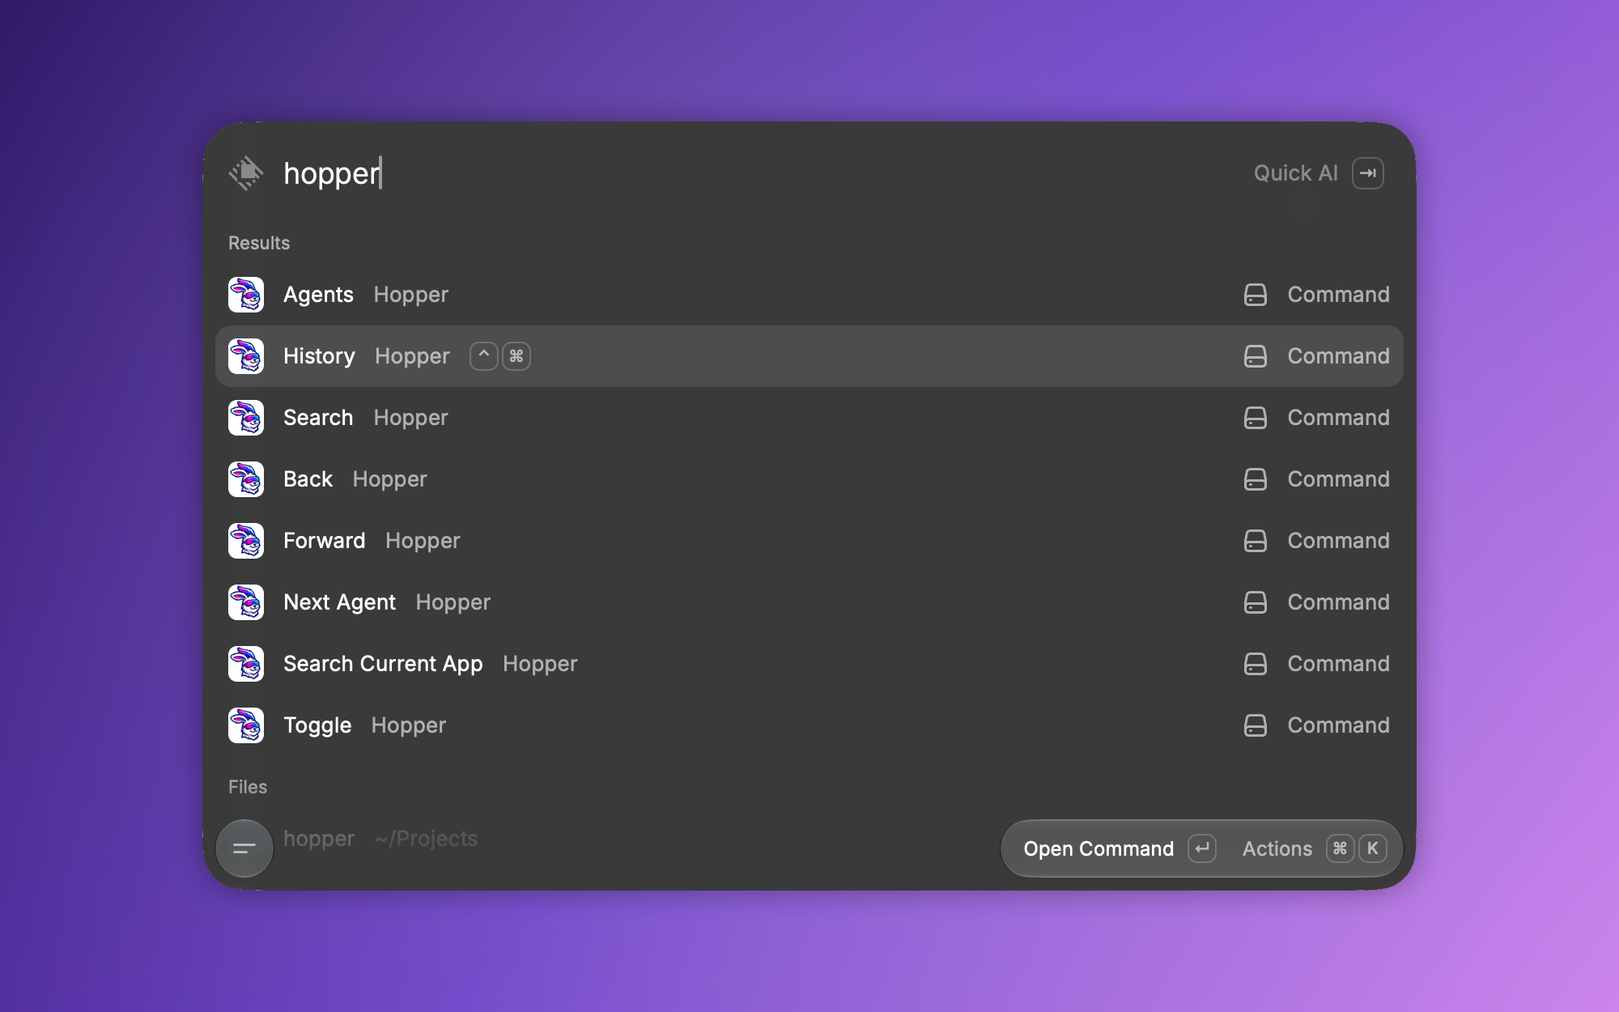
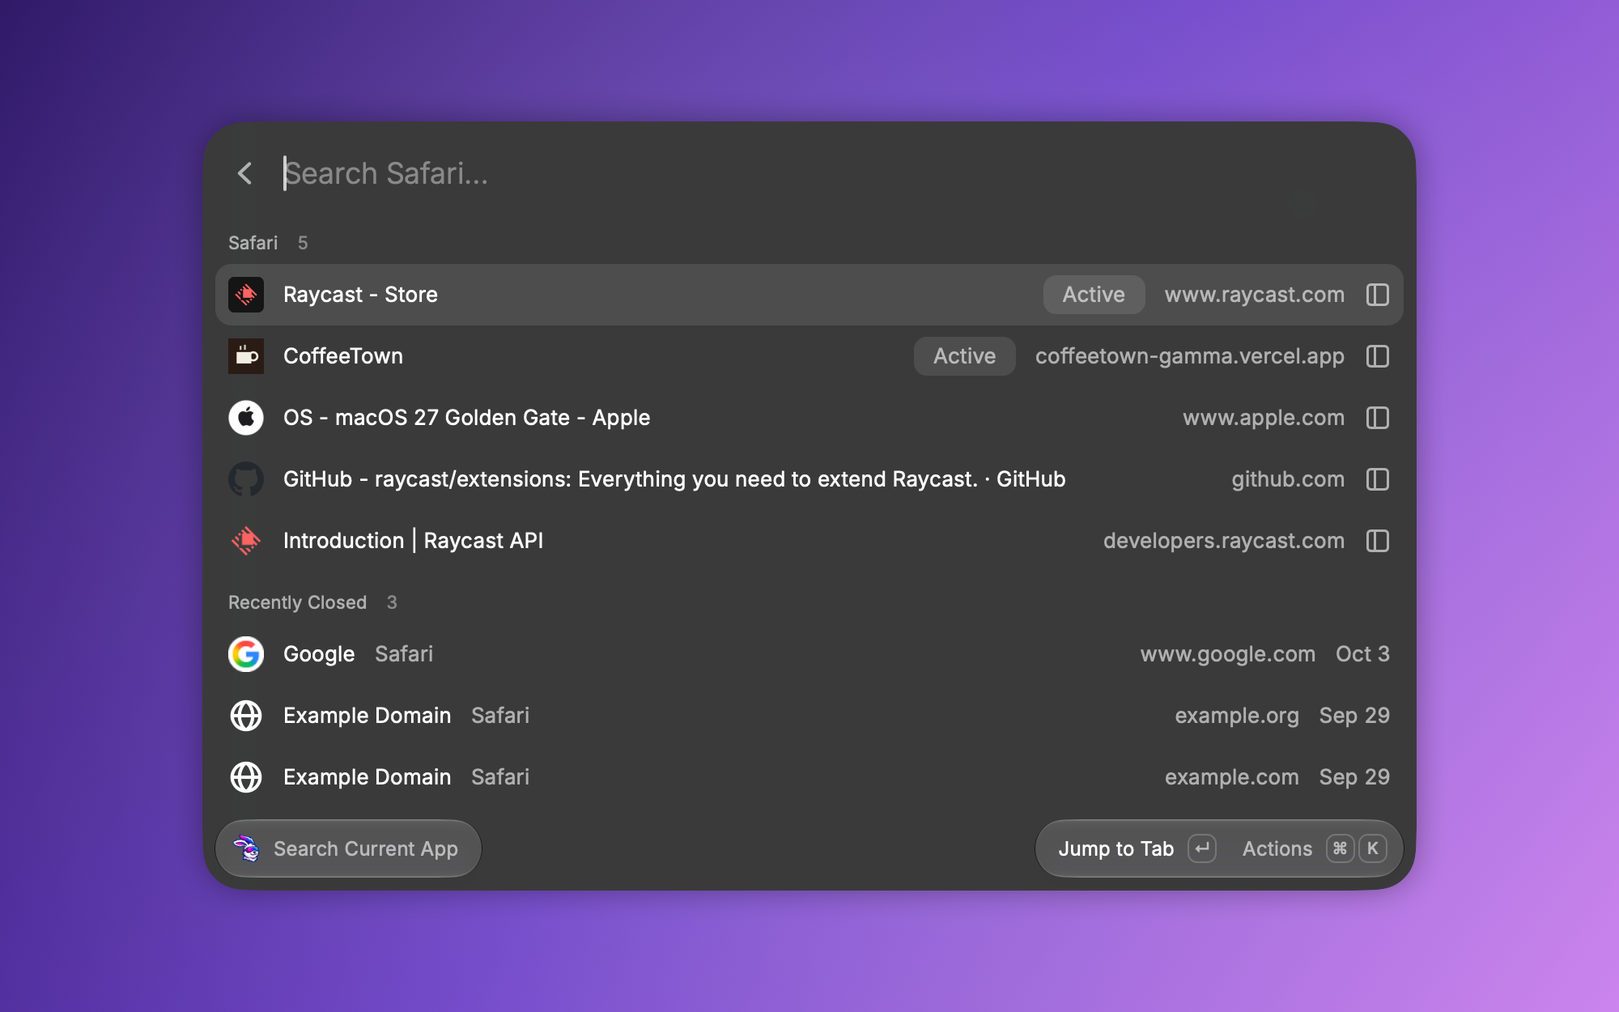
Store review fixes: descriptive title, extension-only screenshot, Agents refresh.
Raycast's review of raycast/extensions#31648:
- Title "Hopper - App, Tab & Agent Switcher", slug hopper-app-tab-agent-switcher (ADR-037); deeplinks, site link, docs follow.
- hopper-5.png shows Search Current App instead of Raycast's root search (store_media.py screenshot-5).
- Agents schedules its next refresh after a read ends, so slow reads no longer pile up.
- CHANGELOG is a single Initial Version entry.

diff --git a/site/index.html b/site/index.html
@@ -207,7 +207,7 @@ footer .wrap { display: flex; justify-content: space-between; gap: 16px; flex-wr
     <h1>Hop to any <em>app, tab, or agent.</em></h1>
     <p>Step back through recent apps like browser history, search every tab and session in one list, and jump to the AI agent that needs you. Free for Raycast.</p>
     <div class="cta">
-      <a class="btn primary" id="install" href="https://www.raycast.com/matt_herwig/hopper">Get it for Raycast</a>
+      <a class="btn primary" id="install" href="https://www.raycast.com/matt_herwig/hopper-app-tab-agent-switcher">Get it for Raycast</a>
       <a class="btn" href="#demo">See it in action ↓</a>
     </div>
     <div class="note">macOS · Free and open source · No background process</div>
@@ -314,7 +314,7 @@ footer .wrap { display: flex; justify-content: space-between; gap: 16px; flex-wr
       <h2>Setup</h2>
       <ol class="steps">
         <li><span>Install Hopper from the <a href="https://www.raycast.com/">Raycast</a> Store.</span></li>
-        <li><span>Record hotkeys in Raycast Settings → Extensions → Hopper (extensions can't set them). Recommended: the ones shown above.</span></li>
+        <li><span>Record hotkeys in Raycast Settings → Extensions → Hopper - App, Tab & Agent Switcher (extensions can't set them). Recommended: the ones shown above.</span></li>
         <li><span>First time in Search: allow <strong>Automation</strong> and <strong>Accessibility</strong> when asked.</span></li>
       </ol>
     </div>

diff --git a/extension/src/components/agent-list.tsx b/extension/src/components/agent-list.tsx
@@ -33,10 +33,12 @@ export function AgentList() {
     keepPreviousData: true,
     onError: (error) => showFailure(error, "Could not read agents"),
   });
+  // The next read starts only after this one ends: a slow app (AppleScript can take seconds) must not pile up reads.
   useEffect(() => {
-    const timer = setInterval(revalidate, REFRESH_MS);
-    return () => clearInterval(timer);
-  }, [revalidate]);
+    if (isLoading) return;
+    const timer = setTimeout(revalidate, REFRESH_MS);
+    return () => clearTimeout(timer);
+  }, [isLoading, revalidate]);
   const [project, setProject] = useState(ALL);
   const agents = data?.agents ?? [];
   const projects = [...new Set(agents.flatMap((a) => (a.project ? [a.project.name] : [])))].sort();

diff --git a/scripts/bench.swift b/scripts/bench.swift
@@ -8,7 +8,7 @@ for command in CommandLine.arguments.dropFirst() {
   let initial = NSWorkspace.shared.frontmostApplication?.bundleIdentifier
   let task = Process()
   task.executableURL = URL(fileURLWithPath: "/usr/bin/open")
-  task.arguments = ["-g", "raycast://extensions/matt_herwig/hopper/\(command)"]
+  task.arguments = ["-g", "raycast://extensions/matt_herwig/hopper-app-tab-agent-switcher/\(command)"]
   let t0 = Date()
   FileHandle.standardError.write("T0 \(Int(t0.timeIntervalSince1970 * 1000))\n".data(using: .utf8)!)
   try! task.run()

diff --git a/scripts/media/store_media.py b/scripts/media/store_media.py
@@ -2,6 +2,7 @@
 """Generate Raycast Store media for Hopper by driving Raycast on this Mac.
 
   python3 scripts/media/store_media.py screenshots   -> extension/metadata/hopper-1.png ... (2000x1250)
+  python3 scripts/media/store_media.py screenshot-5  -> extension/metadata/hopper-5.png only
   python3 scripts/media/store_media.py gif           -> extension/media/demo.gif
 
 Needs: `npm run dev` running (in extension/), Accessibility + Screen Recording permission for the calling app,
@@ -21,7 +22,7 @@ from pathlib import Path
 ROOT = Path(__file__).resolve().parents[2]  # repo root
 EXT = ROOT / "extension"  # the Raycast extension (what ships to the Store)
 HERE = Path(__file__).resolve().parent
-DEEPLINK = "raycast://extensions/matt_herwig/hopper/"
+DEEPLINK = "raycast://extensions/matt_herwig/hopper-app-tab-agent-switcher/"
 TMP = Path(tempfile.mkdtemp(prefix="hopper-media-"))
 atexit.register(shutil.rmtree, TMP, ignore_errors=True)
 
@@ -58,7 +59,7 @@ SAFARI_TABS = [
 # Apps whose process name differs from the app name.
 PROCESS = {"Ghostty": "ghostty"}
 
-# Keys shown in the GIF overlay: the owner's own bindings (Raycast Settings → Extensions → Hopper).
+# Keys shown in the GIF overlay: the owner's own bindings (Raycast Settings → Extensions → Hopper - App, Tab & Agent Switcher).
 # Commands are actually triggered by deeplink, since Raycast ignores synthetic hotkeys.
 HOTKEYS = {
     "back": ["⌃", "⌘", "["],
@@ -323,21 +324,39 @@ def screenshots() -> None:
         capture(out / "hopper-3.png")
         close_raycast()
 
-    # 5. Root search for "hopper": every command, the second row selected to show its hotkey (Raycast ranks by use).
-    # Raycast ignores a synthetic ⌘Space, but Escape from a command's view pops to root search. Matching files from
-    # the user's disk show below the commands; review them before committing.
+        # 5. Search Current App: the staged Safari window's public pages.
+        capture_current_app(out)
+
+
+def capture_current_app(out: Path) -> None:
+    """Search Current App over Safari: only that app's tabs (the staged public pages, plus the owner's own Safari
+    windows: review them). Not root search: Store screenshots show only the extension (Store review)."""
+    close_raycast()
+    subprocess.run(["open", "-a", "Safari"], check=True)
+    time.sleep(1)
+    # From root search, not by deeplink: a first deeplink to a command stops on Raycast's "Request to run" prompt.
+    # Raycast ignores a synthetic ⌘Space, but Escape from a command's view pops to root search.
     deeplink("history")
     time.sleep(1.5)
     escape()
     time.sleep(0.6)
     if raycast_window() is None:
         raise RuntimeError("root search did not open")
-    keys('keystroke "hopper"')
-    time.sleep(1.5)
-    keys("key code 125")  # Raycast shows the hotkey of the selected row only
-    time.sleep(0.6)
+    keys('keystroke "Search Current App"')
+    time.sleep(1.2)
+    keys("key code 36")
+    time.sleep(4)  # the list first shows its cached copy, then refreshes
+    if raycast_window() is None:
+        raise RuntimeError("Search Current App did not open")
     capture(out / "hopper-5.png")
     close_raycast()
+
+
+def current_app_screenshot() -> None:
+    """Only hopper-5.png."""
+    out = EXT / "metadata"
+    with DemoApps(include_ghostty=False, note_name="Raycast.txt", preview_name="Raycast.png"):
+        capture_current_app(out)
 
 
 def gif() -> None:
@@ -651,4 +670,4 @@ def gif() -> None:
 
 
 if __name__ == "__main__":
-    {"screenshots": screenshots, "gif": gif}.get(sys.argv[1] if len(sys.argv) > 1 else "", lambda: sys.exit(__doc__))()
+    {"screenshots": screenshots, "screenshot-5": current_app_screenshot, "gif": gif}.get(sys.argv[1] if len(sys.argv) > 1 else "", lambda: sys.exit(__doc__))()

diff --git a/extension/CHANGELOG.md b/extension/CHANGELOG.md
@@ -1,43 +1,7 @@
 # Hopper Changelog
 
-## [Agents] - {PR_MERGE_DATE}
-
-- Agents command: every AI agent running on your Mac (Claude Code in terminals and the Claude app, Codex, Cursor, herdr, agent CLIs), grouped by Needs You, Done, Working, and Idle, filterable by project, and one step from where it runs.
-- Next Agent command: jump to the agent that has waited longest for you; run again for the next.
-- Jumping to a terminal agent selects its exact iTerm split or cmux terminal.
-- Tabs is now **Search** (and Tabs in Current App is **Search Current App**): it shows an agent's status next to the tab it runs in, and lists agents that aren't in a tab. Your hotkeys keep working.
-- herdr workspaces and tabs are listed in Search under the terminal running herdr, and agents in herdr panes open in their pane.
-- Ghostty tabs are listed in Search (Ghostty 1.3+), and herdr running in Ghostty is brought forward in its own tab.
-- cmux workspaces with several terminals also list each terminal by its name; herdr lists workspaces and their named tabs.
-- Search lists each agent in its app's section, and shows AppleScript's own error for apps it can't read.
-- README: recommended hotkeys for every command, clear of browser, terminal, and editor tab keys.
-- Claude Code sessions that haven't started yet (e.g. waiting to trust a folder) are listed as running.
-- Copy Resume Command for Claude Code and Codex sessions.
-- Search: `⌥→` / `⌥←` jump to the next or previous app's most recent entry.
-- Obsidian tabs in Search: every open vault's tabs, in all its windows (popouts too), with each note's folder; closed notes reopen from Recently Closed.
-- Bookmarks in Search: `⌘D` bookmarks a tab, page, note, document, or Recently Closed entry. Picking a bookmark jumps to the tab already showing it, in any browser, and opens it only when it isn't open. `⌘E` renames a bookmark.
-- Recently Closed jumps to the tab already showing an entry too, instead of opening it a second time; a page that comes back with or without a trailing slash no longer counts as closed.
-- Copy Link (`⌘L`) in Search: a link to share for a web page, Notion page, bookmark, or Recently Closed entry. Replaces Copy URL.
-- Apple Notes in Search: the notes in its Recent Notes menu (up to 10, most recent first); picking one shows it in Notes.
-- Slack channels and DMs in Search, from every signed-in workspace; picking one opens it in Slack.
-- Search no longer runs out of memory ("Command Out of Memory") with many Claude Code sessions: only the few fields it needs are read from the Claude app's session files.
-
-## [Tabs] - {PR_MERGE_DATE}
-
-- Tabs command: search tabs, windows, and sessions across running apps (Chromium browsers, Safari, cmux, iTerm, Terminal, Claude, Muse, and any app's windows) and jump to one.
-- Tabs in Current App command: the same for the frontmost app.
-- Tabs search tolerates typos ("caude" finds Claude) and lists an app's own tabs before tabs that mention its name.
-- Claude Code sessions are listed from Claude's session files (all projects, most recent first, sidebar hidden or not) and open via Claude's deep link.
-- Notion tabs: the front window's tabs (read from its tab bar) with each page's parent pages, then its other windows.
-- Claude Chat and Cowork conversations you've opened open via Claude's deep link, and stay listed with the sidebar hidden.
-- Incognito and private browser windows are left out of Tabs entirely.
-- Back, Forward, Toggle, and History switch apps like Cmd+Tab when Raycast has Accessibility, so an app returns to the window you left (for example TV's fullscreen player instead of its home screen).
-- Recently Closed section in Tabs: reopen browser tabs, Notion pages, and documents closed since Tabs last looked, with Remove and Clear actions.
-- Notion tabs open through Notion's own link, which switches to the tab showing the page in any window.
-
 ## [Initial Version] - {PR_MERGE_DATE}
 
-- Back and Forward commands, designed for hotkeys.
-- Toggle command to flip between your two most recent apps.
-- History command listing running apps by recent use.
-- Remove from History action in History to hide an app until you use it again, and Exclude from History to hide it for good.
+- Back, Forward, Toggle, and History to move through your recently used apps, switching like Cmd+Tab so each app returns to the window you left.
+- Search and Search Current App for tabs, windows, sessions, bookmarks, and recently closed items across apps: Chromium browsers, Safari, cmux, Ghostty, iTerm, Terminal, herdr, Claude, Muse, Notion, Obsidian, Apple Notes, Slack, and any app's windows. Incognito and private windows are left out.
+- Agents and Next Agent to see AI agents (Claude Code, Codex, Cursor, herdr, agent CLIs) by status and jump to where they run.

diff --git a/docs/DECISIONS.md b/docs/DECISIONS.md
@@ -326,3 +326,11 @@ Watching the database through a run: 3.15 never saves `generating`; a running ag
 - Rejected: the Slack Web API (OAuth token, network, duplicates Raycast's Slack extension); Accessibility for the list itself (only rendered rows, no ids, so no deep link); messages.
 
 **Consequences.** Channels joined or renamed since Slack last persisted (while its window stays open) are missing or show old names until the window closes, the network drops, or Slack quits. The V8 version patch and the Redux shape are Slack internals: decode failures, a wire version above 16, or missing `channels` / `teams` are reported as version drift (ADR-029). A blob is decoded whole before fields are picked, so peak memory scales with the workspace (`experiments` dominates here; a large org's `channels` and `members` are unmeasured), bounded by the 8 MB cap (decompressed ~3×). On this Mac's files the source lists 14 places from 2 workspaces in ~45 ms, marks the open DM active, and reports nothing. Not verified: the App Store build's paths, a large workspace's size, Search's heap in Raycast with Slack listed. Sources only list running apps, so Slack quit lists nothing, like the others.
+
+## ADR-037: Store title "Hopper - App, Tab & Agent Switcher", slug `hopper-app-tab-agent-switcher` (2026-10-05)
+
+**Context.** Raycast's Store review of raycast/extensions#31648 (0xdhrv) blocked on the title: "Hopper" alone doesn't say what the extension does, and other Mac apps use the name. Store titles must make that obvious; the reviewer suggested a descriptor and a matching `name`.
+
+**Decision.** Title "Hopper - App, Tab & Agent Switcher", `name` (Store slug, folder in raycast/extensions, deeplinks) `hopper-app-tab-agent-switcher`. Commands keep "Hopper" as their `subtitle`, so root search still reads "Back · Hopper". Owner's own phrase ("Hop to any app, tab, or agent") was considered: as a Title Case title it reads like a tagline and makes a long slug. Done before the first Store release, so no installed user loses anything.
+
+**Consequences.** Deeplinks are `raycast://extensions/matt_herwig/hopper-app-tab-agent-switcher/<command>` (scripts, CLAUDE.md, bench); the Store page and the site's install link move to that slug; Raycast Settings lists the extension under the new title. The dev build is a new extension to Raycast: its LocalStorage (bookmarks, History exclusions) and hotkeys start empty. The Store PR's folder moves from `extensions/hopper` to `extensions/hopper-app-tab-agent-switcher` (the old folder must not stay in the PR).

diff --git a/docs/RELEASING.md b/docs/RELEASING.md
@@ -14,7 +14,7 @@ Source: https://developers.raycast.com/basics/prepare-an-extension-for-store and
 All commands below run in `extension/`. Publish ships everything on disk in `extension/` (ADR-012): check nothing dev-only or stray (e.g. `.DS_Store`, `swift/.build/`) is in there first.
 
 - [ ] `cd extension && npm run check` passes (tests + `ray lint` + `ray build`).
-- [ ] Test the **distribution** build (the PR checklist asks for it). If user-facing behavior changed, the owner may choose to run `python3 scripts/smoke.py --dist` (`smoke-test` skill, all suites, ~2½ min of screen takeover; ask first, don't run by default). Background: `npm run build` is plain `ray build`, which defaults to `-e dev`; `ray build -e dist` writes into Raycast's installed copy (`~/.config/raycast/extensions/hopper`).
+- [ ] Test the **distribution** build (the PR checklist asks for it). If user-facing behavior changed, the owner may choose to run `python3 scripts/smoke.py --dist` (`smoke-test` skill, all suites, ~2½ min of screen takeover; ask first, don't run by default). Background: `npm run build` is plain `ray build`, which defaults to `-e dev`; `ray build -e dist` writes into Raycast's installed copy (`~/.config/raycast/extensions/hopper-app-tab-agent-switcher`).
 - [ ] Manually test built extension: bind the recommended hotkeys (`extension/README.md` Setup), walk back 3 apps, forward 3, switch manually mid-walk, quit an app mid-walk, test with apps on other Spaces and hidden apps.
 - [ ] `extension/metadata/` folder: 3–6 PNG screenshots, 2000×1250 — **required** because `history` is a `view` command. Capture with Raycast "Window Capture" (hotkey in Raycast settings) → "Save to Metadata" while running `npm run dev`, or rerun the `store-screenshots` skill. Ideas: history list; command search showing both hotkey commands; HUD "No earlier app in history".
 - [ ] Icon looks good in light + dark Raycast themes (`extension/assets/extension-icon.png`, 512×512 PNG; optional `extension-icon@dark.png`).
@@ -42,6 +42,6 @@ Never rename command `name`s (breaks users' hotkeys).
 
 ## Marketing after approval
 
-- Store page: https://www.raycast.com/matt_herwig/hopper (verify after merge).
+- Store page: https://www.raycast.com/matt_herwig/hopper-app-tab-agent-switcher (verify after merge).
 - Post pitch (see `docs/RESEARCH.md` → Pitch) to: r/raycastapp, r/macapps, Raycast Slack #extensions, Show HN (optional), X with a short screen recording.
 - Answer existing "switch to previous app mac" threads (links in RESEARCH.md) where on-topic.

diff --git a/.claude/skills/store-screenshots/SKILL.md b/.claude/skills/store-screenshots/SKILL.md
@@ -13,7 +13,7 @@ Produces `extension/metadata/hopper-1.png` … `hopper-5.png`, the images on the
 | `hopper-2.png` | Agents, grouped by status. Live sessions on this Mac; review for personal titles before keeping it. |
 | `hopper-3.png` | History list: Current tag, "n back" labels, built-in apps only |
 | `hopper-4.png` | Search for "macos": the staged page in Recently Closed |
-| `hopper-5.png` | Root search for "hopper": all commands, the second row selected (Raycast shows only the selected row's hotkey; its ranking follows usage) |
+| `hopper-5.png` | Search Current App over the staged Safari window: public pages (your own Safari windows show too; review). Not root search: Store review rejects screenshots outside the extension. Only this one: `store_media.py screenshot-5` |
 
 ## Before running
 
@@ -38,7 +38,7 @@ What it does (`scripts/media/store_media.py`):
 ## After running: review every image (required)
 
 Read each PNG and check:
-- Search (`hopper-1.png`) is the owner's real list, empty query; they accepted that. Recently Closed shows the staged macOS page (`hopper-4.png`). History shows built-in apps (`hopper-3.png`). The list first shows its cached copy, so the script waits before capturing. Agents (`hopper-2.png`) is live: if session titles or paths are personal, don't keep that frame. `hopper-5.png` lists matching files from `~/Projects/hopper` below the commands; the owner accepted that.
+- Search (`hopper-1.png`) is the owner's real list, empty query; they accepted that. Recently Closed shows the staged macOS page (`hopper-4.png`). History shows built-in apps (`hopper-3.png`). The list first shows its cached copy, so the script waits before capturing. Agents (`hopper-2.png`) is live: if session titles or paths are personal, don't keep that frame. `hopper-5.png` shows only Safari tabs: check none are personal.
 - Chess shows in Recent in `hopper-3.png`. If Chess stays excluded from an older run: open History, find it in Excluded, Include in History.
 - Sizes: `sips -g pixelWidth -g pixelHeight extension/metadata/*.png` → 2000×1250.
 - **Raycast CI's image check passes** (it failed the first submission). Their CI requires ~12.5% padding on every side (8–17%), top/bottom and left/right within 4%, and the same background on every image. Run their checker locally:

diff --git a/docs/STATUS.md b/docs/STATUS.md
@@ -2,6 +2,12 @@
 
 _Narrative snapshot. Update at the end of every session that changes state. Actionable work lives in GitHub Issues (see CLAUDE.md → Tasks), not here._
 
+## 2026-10-05 — Store review fixes (raycast/extensions#31648, ADR-037)
+
+- Raycast's human review (0xdhrv): title is now "Hopper - App, Tab & Agent Switcher", slug `hopper-app-tab-agent-switcher` (ADR-037); `hopper-5.png` is Search Current App over Safari instead of Raycast's root search (`store_media.py screenshot-5`, opened from root search to skip the deeplink prompt); Agents refreshes 4 s after a read ends instead of every 4 s (reads could pile up); CHANGELOG is one Initial Version entry. Optional items (rename `tabs`/`app-tabs`, "Needs input" label, `harpoon` keyword, shorter description) skipped by the owner.
+- Verified: 170 unit tests, lint, Raycast's image check (5/5). Not verified: Store PR re-published under the new folder.
+- Next: re-publish (`publish-store` skill; drop `extensions/hopper` from the PR), reply to the review, press Ready for review. Rebind dev hotkeys (new extension to Raycast).
+
 ## 2026-10-01 — Slack channels and DMs in Search (ADR-036, issue #66, branch `worktree-slack-source`)
 
 - Spike: Slack's channels, DMs, workspaces, and unread counts are in its persisted Redux store (IndexedDB blob per workspace: Snappy + V8 wire format 16, decoded with Node's `v8.deserialize` after patching the version byte). No message history in it, and not the sidebar's order. Slack writes it only on network loss or window unload, so it can be hours or days stale: the list is usable, unread badges are not.

diff --git a/.claude/skills/publish-store/SKILL.md b/.claude/skills/publish-store/SKILL.md
@@ -9,7 +9,7 @@ Everything here is outward-facing: **confirm with the owner before running publi
 
 ## How publishing works
 
-- `npm run publish` (run in `extension/`) copies **every file on disk** in `extension/` into a fork of `raycast/extensions` (branch `ext/hopper`) and opens or updates a PR. Not a git export, and there is no ignore file: only `.git`, `.github`, `node_modules`, `raycast-env.d.ts`, `.direnv`, `.raycast-swift-build`, `.swiftpm`, `compiled_raycast_*` are skipped. That's why dev material lives at the repo root (ADR-012).
+- `npm run publish` (run in `extension/`) copies **every file on disk** in `extension/` into a fork of `raycast/extensions` (branch `ext/hopper-app-tab-agent-switcher`) and opens or updates a PR. Not a git export, and there is no ignore file: only `.git`, `.github`, `node_modules`, `raycast-env.d.ts`, `.direnv`, `.raycast-swift-build`, `.swiftpm`, `compiled_raycast_*` are skipped. That's why dev material lives at the repo root (ADR-012).
 - Merge = published. Later updates: run publish again; it updates the open PR or opens a new one.
 
 ## 1. Before publishing

diff --git a/CLAUDE.md b/CLAUDE.md
@@ -1,7 +1,7 @@
 # CLAUDE.md — Hopper (Raycast extension)
 
 Browser-style Back / Forward for macOS apps, tab search across apps, and jumping to AI agents wherever they run; shipped as a Raycast Store extension.
-Store slug `hopper`, title "Hopper".
+Store slug `hopper-app-tab-agent-switcher`, title "Hopper - App, Tab & Agent Switcher"; commands show "Hopper" as their subtitle (ADR-037).
 
 ## Start here
 
@@ -128,7 +128,7 @@ site/index.html                               landing page at https://addhopper.
 With `npm run dev` running (in `extension/`), trigger commands via deeplink and inspect frontmost app:
 
 ```bash
-open -g "raycast://extensions/matt_herwig/hopper/back"
+open -g "raycast://extensions/matt_herwig/hopper-app-tab-agent-switcher/back"
 osascript -l JavaScript -e 'ObjC.import("AppKit"); $.NSWorkspace.sharedWorkspace.frontmostApplication.bundleIdentifier.js'
 ```
 

diff --git a/extension/README.md b/extension/README.md
@@ -19,7 +19,7 @@ Cmd+Tab only knows "most recent" and reshuffles every time you switch, so gettin
 
 ## Setup
 
-Hopper is meant to be used with hotkeys. Raycast extensions can't set hotkeys themselves, so record them in Raycast Settings → Extensions → Hopper. Recommended:
+Hopper is meant to be used with hotkeys. Raycast extensions can't set hotkeys themselves, so record them in Raycast Settings → Extensions → Hopper - App, Tab & Agent Switcher. Recommended:
 
 | Command        | Hotkey                   |
 | -------------- | ------------------------ |
